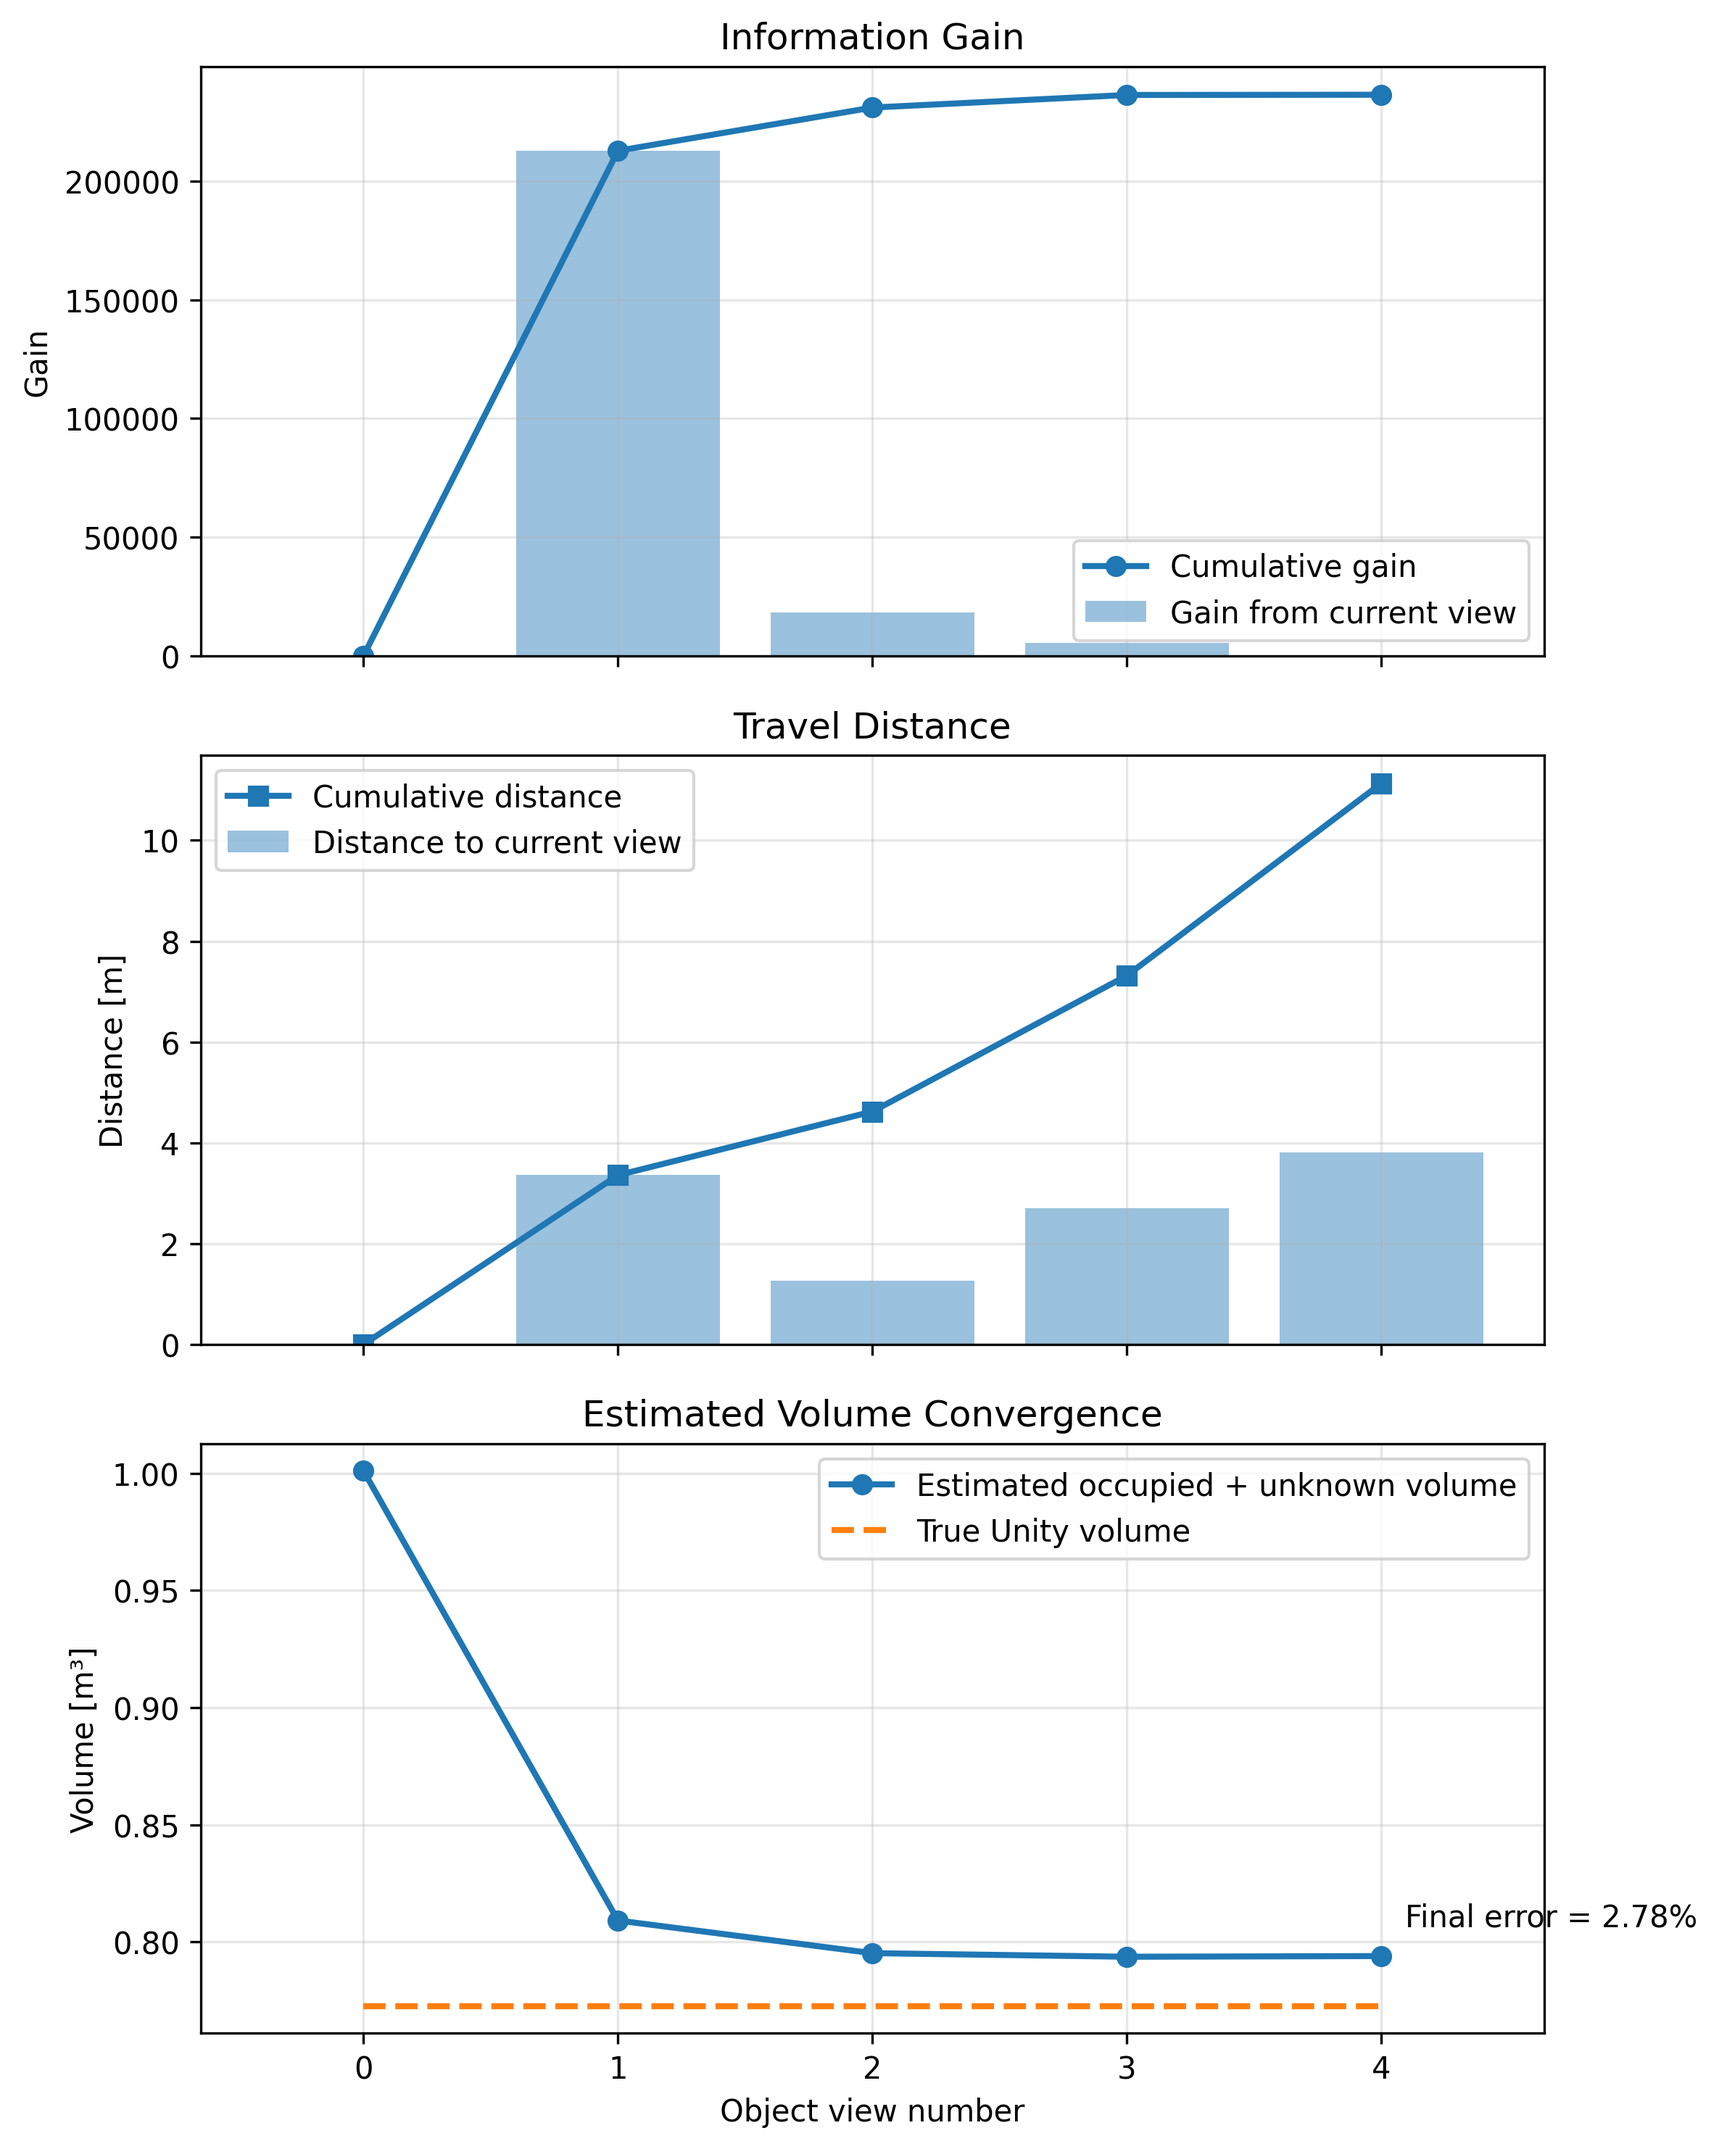
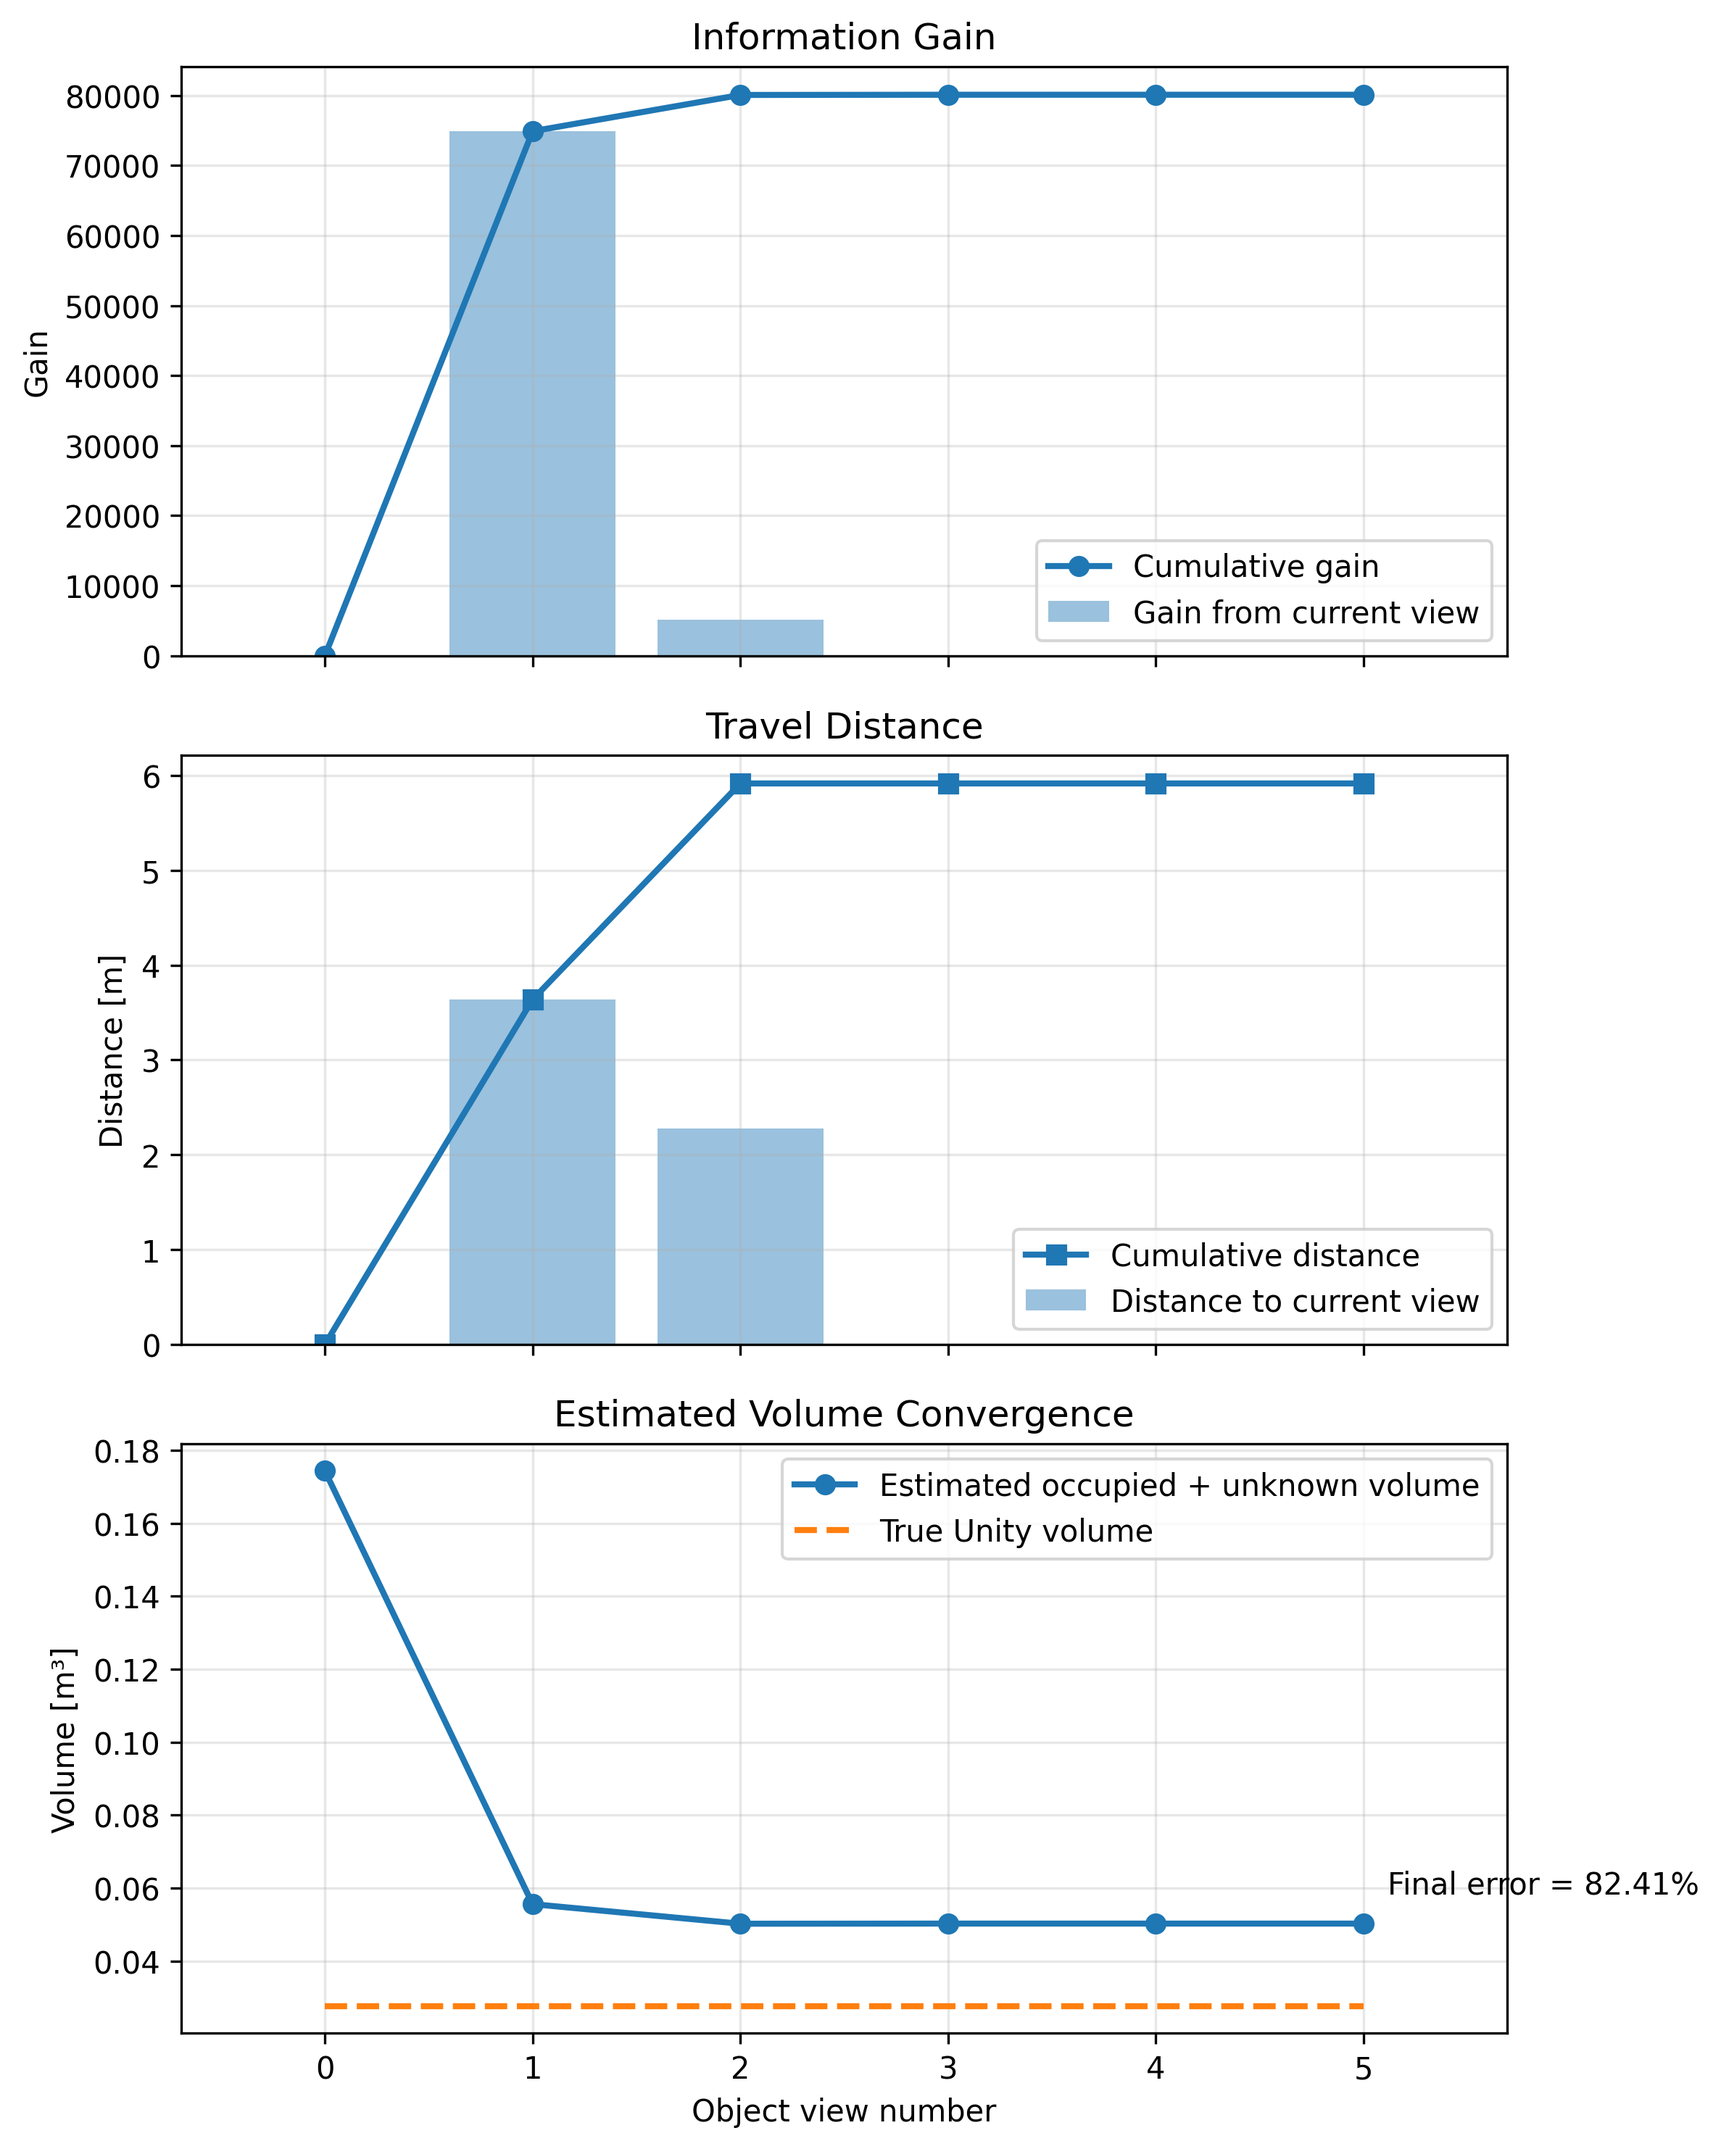
update

diff --git a/main.py b/main.py
@@ -1,5 +1,6 @@
 import numpy as np
 import os
+import time
 from nbv.nbv_main import NextBestViewPlanner, CameraIntrinsics
 from functions_compute import ExtrusionFusionReconstruction
 from functions_camera import  filter_by_height, Initialization
@@ -19,7 +20,7 @@ NBV_HOST = "127.0.0.1"
 NBV_PORT = 9020
 
 # input
-VOXEL_SIZE = 0.01 
+VOXEL_SIZE = 0.02 
 BBOX_MARGIN = 0.05
 FLOOR_HEIGHT = 0.0
 HEIGHT_THRESHOLD = 1e-3
@@ -36,7 +37,7 @@ MAX_ELEV_DEG = 30
 
 # stopping condition5
 VOLUME_CHANGE_THRESHOLD = 0.03
-VOLUME_STABLE_LIMIT = 3
+VOLUME_STABLE_LIMIT = 10
 
 # initialisation
 MIN_ALT_BUFFER = 1.3
@@ -78,6 +79,8 @@ def main():
     prev_volume = None
     unknown_voxel_history = [] # number of unknown voxels
     position_history = []
+    refinement_time_history = []
+
     
     # initialisation state
     initial_target_sent = False
@@ -148,6 +151,7 @@ def main():
                     waiting_for_nbv_move = False
                     pending_nbv_position = None
             
+            start_time = time.time()
             recon.carve_with_depth_image(
                 depth=depth,
                 fov_degrees=fov,
@@ -158,6 +162,8 @@ def main():
                 height_threshold=HEIGHT_THRESHOLD
             )
             unknown_voxel_history.append(recon.unknown_count)
+            end_time = time.time()
+            refinement_time_history.append(end_time - start_time)
             view_history.append(detected_view_count)
             position_history.append(position)
             volume_history.append(recon.occupied_volume + recon.unknown_volume)
@@ -169,6 +175,9 @@ def main():
                 f"\nCamera position used: {position}"
                 "\n===================================================="
             )
+            
+            print(f"Refinment time for this view: {end_time - start_time:.3f} seconds"
+                  f"Refinement time history: {refinement_time_history}")
             
             #if PLOT_VOXEL_CENTERS:
             #    plot_voxel_centers_3d(

diff --git a/voxel_resolution.py b/voxel_resolution.py
@@ -19,7 +19,7 @@ NBV_HOST = "127.0.0.1"
 NBV_PORT = 9020
 
 # input
-VOXEL_SIZE = 0.015
+VOXEL_SIZE = 0.007
 BBOX_MARGIN = 0.05
 FLOOR_HEIGHT = 0.0
 HEIGHT_THRESHOLD = 1e-3
@@ -33,7 +33,7 @@ SIZE_MARGIN = 1.5 # Multiplier to ensure the entire object fits within the camer
 MIN_ALT_BUFFER = 1.2
 
 # Object Type
-OBJECT_TYPE = "sphere_1.0m"
+OBJECT_TYPE = "chair"
 
 # plotting option
 PLOT_VOXEL_CENTERS = False
@@ -221,6 +221,15 @@ def main():
                     output_file_path=os.path.join(results_folder, f'view_evaluation_history_{VOXEL_SIZE}_{OBJECT_TYPE}.png'),
                 )
                 
+                plot_voxel_centers_3d(
+                    occupied_centers=recon.occupied_surface_centers, 
+                    unknown_centers = recon.unknown_surface_centers, 
+                    bbox_corners = recon.bbox_corners,
+                    title=(
+                        "Occupied and Unknown Voxels - "
+                        f"View {detected_view_count}"
+                    ),
+                )
                 timing_file = os.path.join(results_folder, f'refinement_times_{VOXEL_SIZE}_{OBJECT_TYPE}.npy')
                 np.save(timing_file, np.array(refinement_time_history))
                 print(f"Saved refinement timing history to {timing_file}")
